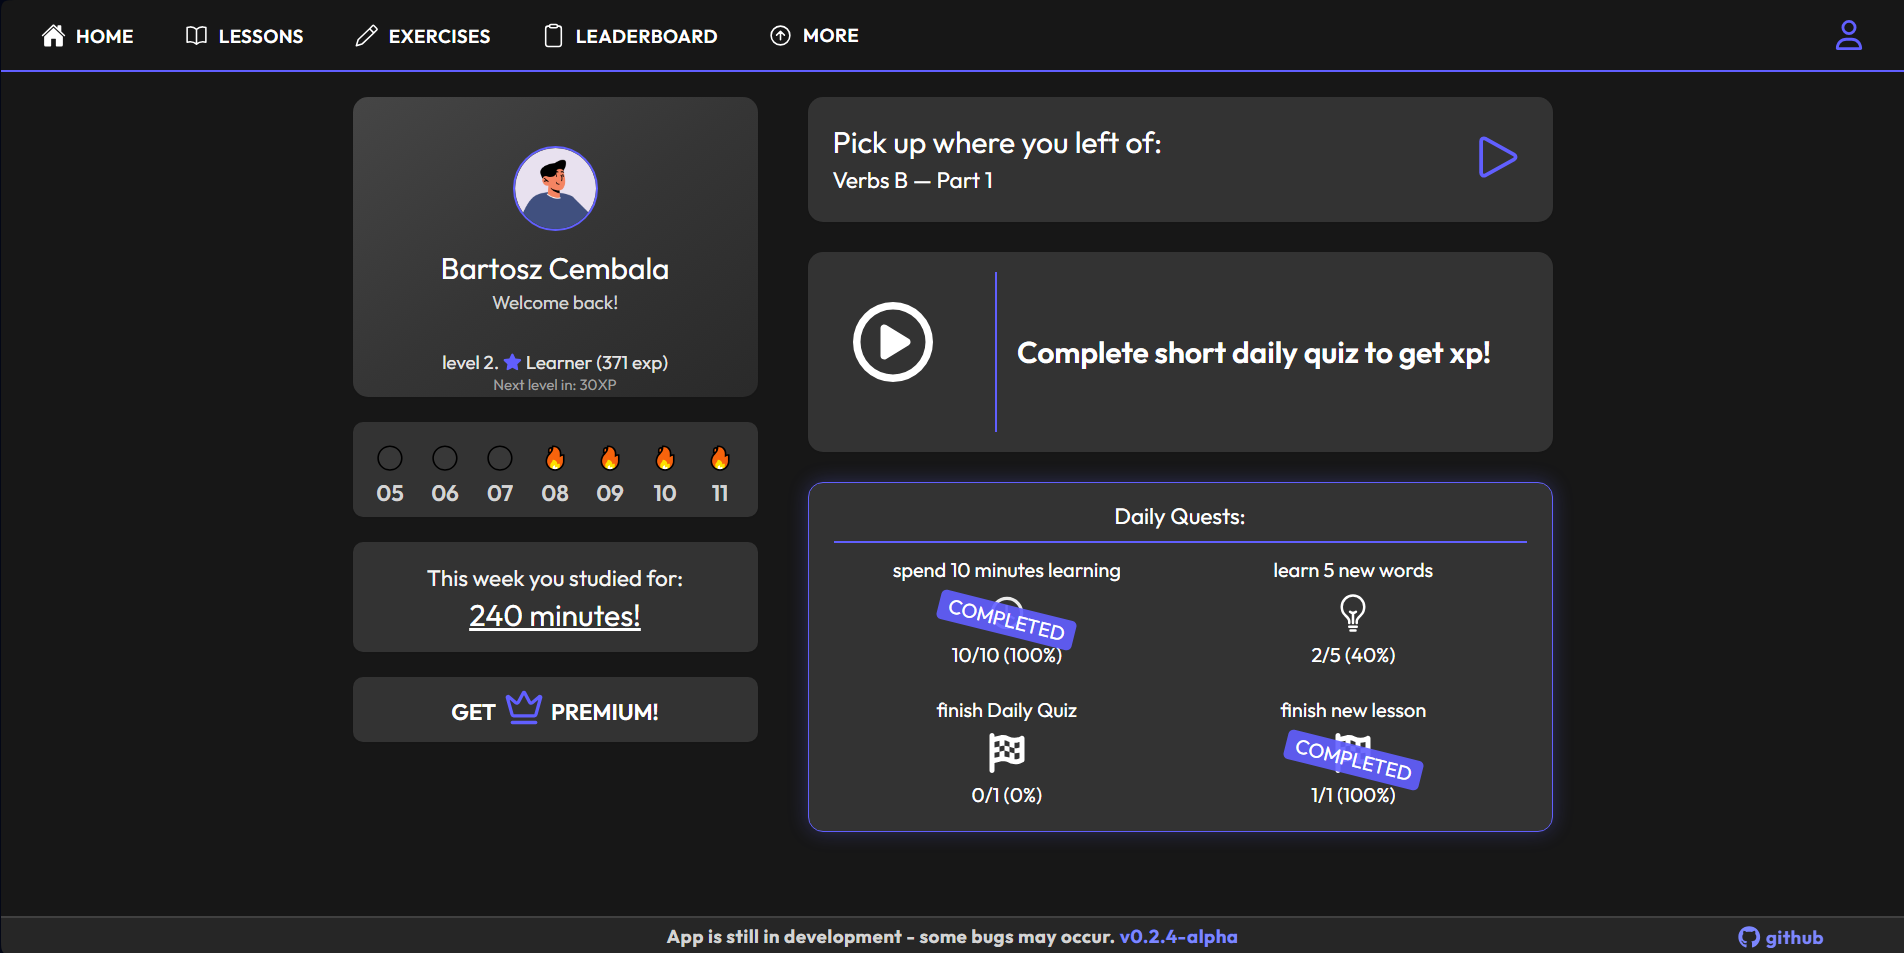
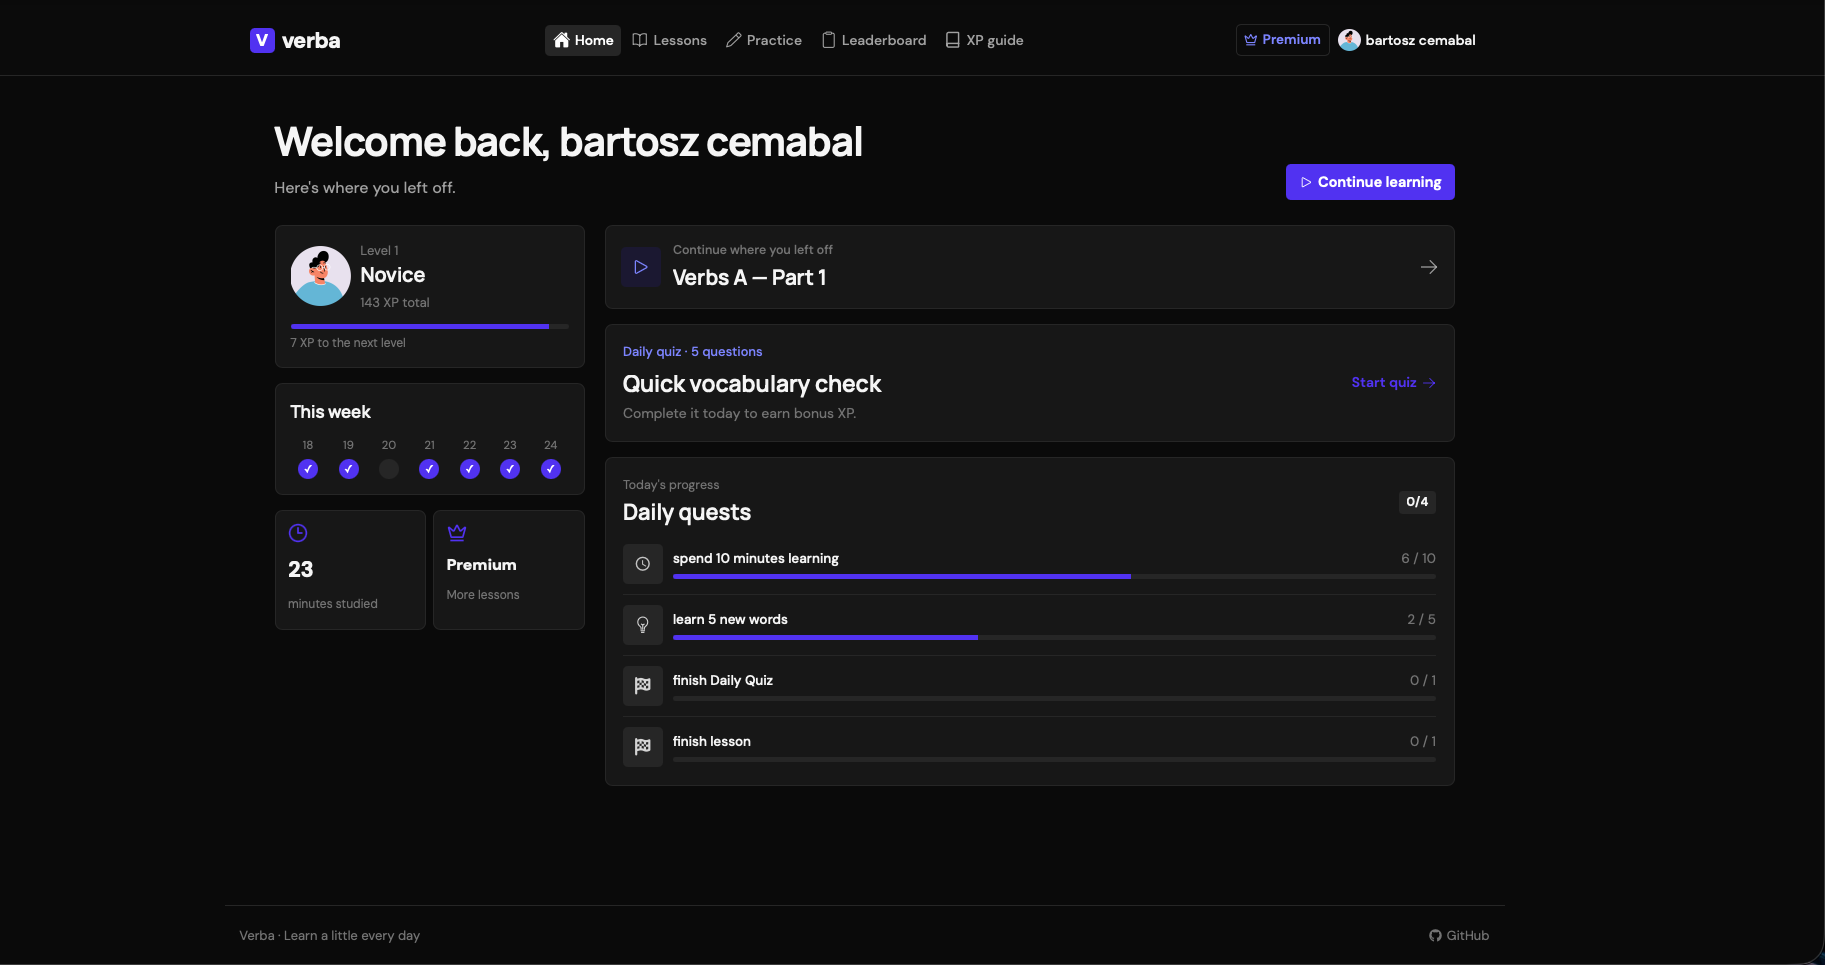
feat(auth): add protected recruiter demo account

diff --git a/backend/scripts/seed-demo-user.ts b/backend/scripts/seed-demo-user.ts
@@ -1,0 +1,140 @@
+import "dotenv/config";
+import bcrypt from "bcrypt";
+import { eq } from "drizzle-orm";
+import { drizzle } from "drizzle-orm/postgres-js";
+import postgres = require("postgres");
+import { DEMO_ACCOUNT_EMAIL } from "../src/common/auth/demo-account";
+import {
+  dailyQuestProgress,
+  learningModules,
+  lessons,
+  progress,
+  userLessonCompletions,
+  users,
+} from "../src/storage/schema";
+
+const DEMO_PASSWORD = "12345678";
+
+const databaseUrl = process.env.PRODUCTION_DATABASE_URL ?? process.env.DATABASE_URL;
+if (!databaseUrl) {
+  console.error("DATABASE_URL or PRODUCTION_DATABASE_URL is required");
+  process.exit(1);
+}
+
+function warsawDate(daysAgo = 0): string {
+  const date = new Date();
+  date.setUTCDate(date.getUTCDate() - daysAgo);
+  return new Intl.DateTimeFormat("en-CA", { timeZone: "Europe/Warsaw" }).format(date);
+}
+
+async function main() {
+  const hostname = new URL(databaseUrl).hostname;
+  const client = postgres(databaseUrl, {
+    max: 1,
+    ...(hostname.endsWith(".render.com") ? { ssl: "require" as const } : {}),
+  });
+  const db = drizzle(client);
+
+  try {
+    const passwordHash = await bcrypt.hash(DEMO_PASSWORD, 12);
+    const streak = [3, 2, 1, 0].map(warsawDate).reverse();
+    const timeSpentLearning = [
+      { date: warsawDate(6), value: 8 },
+      { date: warsawDate(5), value: 14 },
+      { date: warsawDate(4), value: 11 },
+      { date: warsawDate(3), value: 18 },
+      { date: warsawDate(2), value: 16 },
+      { date: warsawDate(1), value: 22 },
+      { date: warsawDate(), value: 10 },
+    ];
+
+    await db.transaction(async (transaction) => {
+      const [firstLesson] = await transaction
+        .select({ title: lessons.title, displayTitle: lessons.displayTitle })
+        .from(lessons)
+        .orderBy(lessons.number)
+        .limit(1);
+
+      const [existing] = await transaction
+        .select({ id: users.id })
+        .from(users)
+        .where(eq(users.email, DEMO_ACCOUNT_EMAIL))
+        .limit(1);
+
+      const demoValues = {
+        name: "Demo Learner",
+        email: DEMO_ACCOUNT_EMAIL,
+        passwordHash,
+        role: "user" as const,
+        latestActivity: firstLesson ? [[firstLesson.title, firstLesson.displayTitle]] : [],
+        streak,
+        timeSpentLearning,
+        premium: true,
+        exp: 260,
+        avatar: "3",
+        quiz: { date: "", finished: false },
+        updatedAt: new Date(),
+      };
+
+      const [demoUser] = existing
+        ? await transaction
+          .update(users)
+          .set(demoValues)
+          .where(eq(users.id, existing.id))
+          .returning({ id: users.id })
+        : await transaction
+          .insert(users)
+          .values(demoValues)
+          .returning({ id: users.id });
+
+      await transaction.delete(progress).where(eq(progress.userId, demoUser.id));
+      await transaction
+        .delete(userLessonCompletions)
+        .where(eq(userLessonCompletions.userId, demoUser.id));
+      await transaction
+        .delete(dailyQuestProgress)
+        .where(eq(dailyQuestProgress.userId, demoUser.id));
+
+      const moduleRows = await transaction
+        .select({ id: learningModules.id, words: learningModules.words })
+        .from(learningModules)
+        .orderBy(learningModules.title)
+        .limit(3);
+
+      for (const moduleRow of moduleRows) {
+        const learned = moduleRow.words.slice(0, 5);
+        if (learned.length > 0) {
+          await transaction.insert(progress).values({
+            userId: demoUser.id,
+            learningModuleId: moduleRow.id,
+            learned,
+          });
+        }
+      }
+
+      const lessonRows = await transaction
+        .select({ id: lessons.id })
+        .from(lessons)
+        .orderBy(lessons.number)
+        .limit(3);
+      if (lessonRows.length > 0) {
+        await transaction.insert(userLessonCompletions).values(
+          lessonRows.map(({ id }) => ({ userId: demoUser.id, lessonId: id })),
+        );
+      }
+
+      await transaction.insert(dailyQuestProgress).values([
+        { userId: demoUser.id, day: warsawDate(), questKey: "study_time", progress: 10 },
+        { userId: demoUser.id, day: warsawDate(), questKey: "learn_words", progress: 5 },
+        { userId: demoUser.id, day: warsawDate(), questKey: "daily_quiz", progress: 0 },
+        { userId: demoUser.id, day: warsawDate(), questKey: "complete_lesson", progress: 1 },
+      ]);
+    });
+
+    console.log(`Demo account seeded: ${DEMO_ACCOUNT_EMAIL}`);
+  } finally {
+    await client.end({ timeout: 5 });
+  }
+}
+
+void main();

diff --git a/backend/src/users/users.service.ts b/backend/src/users/users.service.ts
@@ -1,5 +1,6 @@
-import { BadRequestException, Injectable, NotFoundException } from "@nestjs/common";
+import { BadRequestException, ForbiddenException, Injectable, NotFoundException } from "@nestjs/common";
 import bcrypt from "bcrypt";
+import { DEMO_ACCOUNT_EMAIL } from "../common/auth/demo-account";
 import { UsersRepository } from "./users.repository";
 import type { CreateUserInput, PublicUser, UpdateUserInput } from "./users.types";
 import { toPublicUser } from "./users.types";
@@ -31,6 +32,7 @@ export class UsersService {
   }
 
   async update(id: string, input: UpdateCurrentUserDto): Promise<PublicUser> {
+    await this.assertMutableAccount(id);
     const allowed: UpdateUserInput = {};
     if (input.name !== undefined) allowed.name = input.name;
     if (input.email !== undefined) allowed.email = input.email;
@@ -50,7 +52,14 @@ export class UsersService {
     return toPublicUser(user);
   }
 
-  delete(id: string): Promise<void> {
+  async delete(id: string): Promise<void> {
+    await this.assertMutableAccount(id);
     return this.repository.delete(id);
+  }
+
+  private async assertMutableAccount(id: string): Promise<void> {
+    if (await this.repository.findEmailById(id) === DEMO_ACCOUNT_EMAIL) {
+      throw new ForbiddenException("The demo account cannot be edited or deleted");
+    }
   }
 }

diff --git a/backend/src/users/users.repository.ts b/backend/src/users/users.repository.ts
@@ -23,6 +23,15 @@ export class UsersRepository {
     return user ? (await this.hydrate([user]))[0] : undefined;
   }
 
+  async findEmailById(id: string): Promise<string | undefined> {
+    const [user] = await this.db
+      .select({ email: users.email })
+      .from(users)
+      .where(eq(users.id, id))
+      .limit(1);
+    return user?.email;
+  }
+
   async create(input: CreateUserInput): Promise<UserWithRelationships> {
     const [user] = await this.db.insert(users).values({ ...input, email: input.email.toLowerCase() }).returning();
     return { ...user, finishedLessons: [], friends: [] };

diff --git a/backend/src/common/auth/demo-account.ts b/backend/src/common/auth/demo-account.ts
@@ -1,0 +1,1 @@
+export const DEMO_ACCOUNT_EMAIL = "acc@demo.pl";

diff --git a/README.md b/README.md
@@ -229,6 +229,14 @@ npm run user:promote -- admin@example.com
 
 Administrators can create, update, and delete learning modules and lessons. Reading learning content remains public, while account data, progression commands, exercises, and premium operations require authentication.
 
+Create or reset the recruiter demo account from the backend directory:
+
+```bash
+npm run user:seed-demo
+```
+
+The command uses `PRODUCTION_DATABASE_URL` when it is set, otherwise it falls back to `DATABASE_URL`. It resets only the demo account and its own learning progress. The account signs in as `acc@demo.pl` with password `12345678`, has the regular `user` role, and cannot edit or delete its profile.
+
 ## Stripe webhooks
 
 Set `STRIPE_SECRET_KEY` and `STRIPE_WEBHOOK_SECRET` in `backend/.env`. Configure Stripe to deliver these events:
